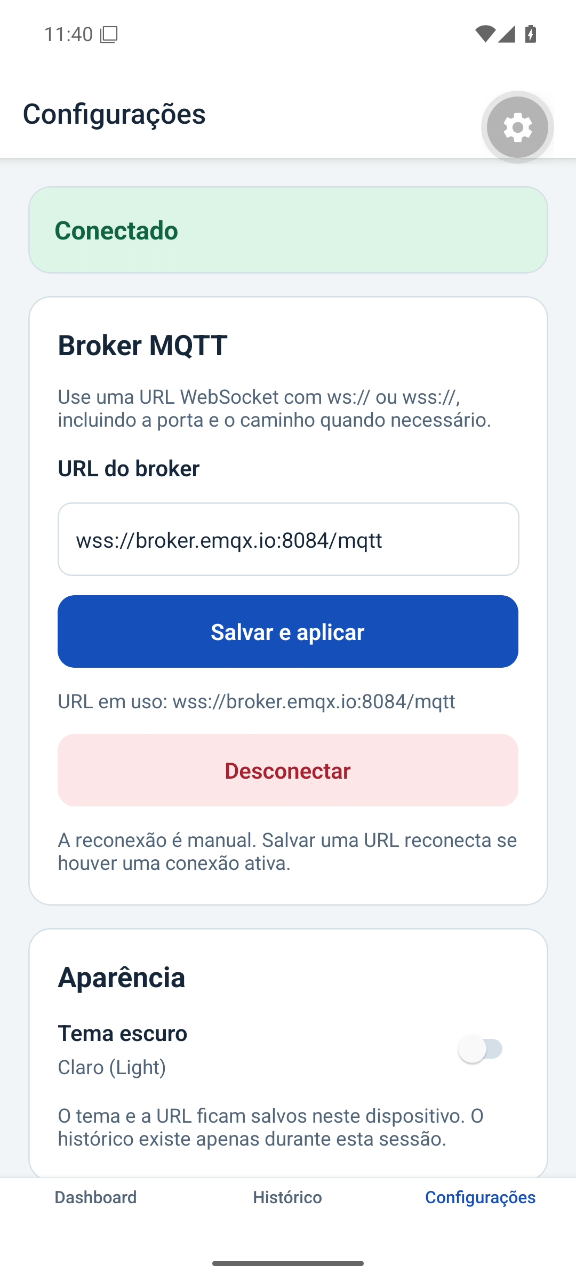
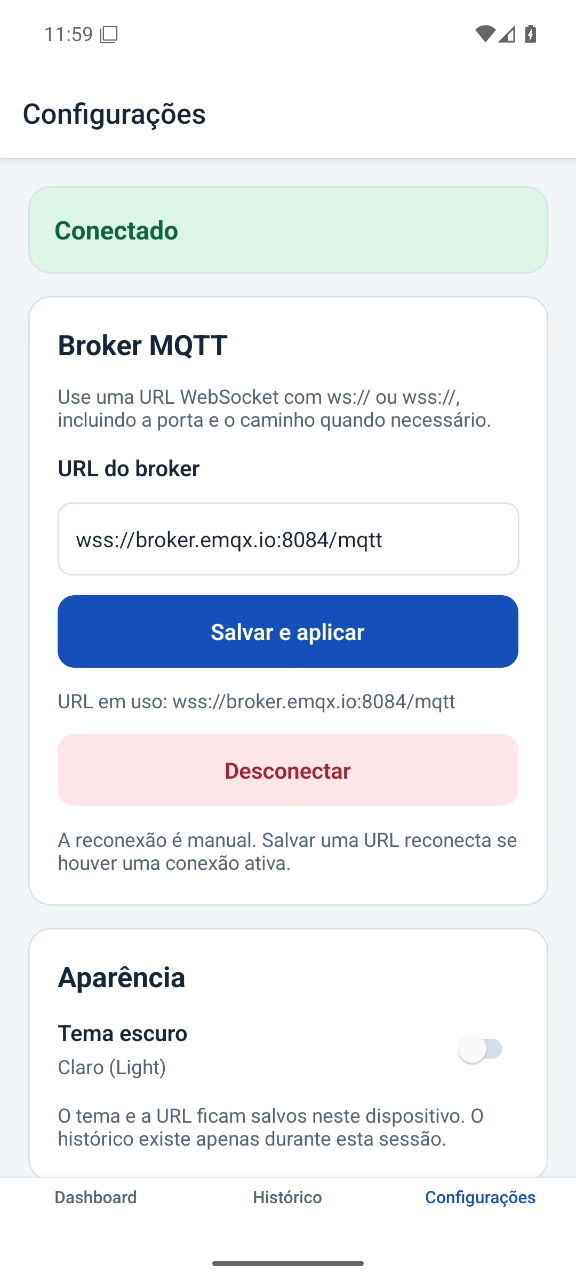
arruma readme

diff --git a/README.md b/README.md
@@ -2,9 +2,7 @@
 
 **Integrante: Vinicius Silva Gardim — RM-556013**
 
-Checkpoint 3 de Mobile — FIAP. Aplicativo para acompanhar temperatura e umidade e controlar uma lâmpada simulada usando MQTT. O objetivo é demonstrar comunicação entre um app React Native e um dispositivo simulado, com confirmação do estado recebido do dispositivo.
-
-O app foi validado no Android com Expo Go, usando o simulador MQTT deste projeto. As capturas abaixo são da execução real no emulador.
+Checkpoint 3 de Mobile — FIAP. App para acompanhar temperatura e umidade e controlar uma lâmpada simulada por MQTT. O objetivo é demonstrar a comunicação entre React Native e um dispositivo simulado, com confirmação do estado recebido.
 
 ## Tecnologias
 
@@ -18,63 +16,51 @@ Versões resolvidas em `package-lock.json`:
 | TypeScript | 6.0.3 |
 | MQTT.js (`mqtt`) | 5.16.1 |
 | AsyncStorage | 2.2.0 |
-| React Navigation Native | 7.5.1 |
-| React Navigation Bottom Tabs | 7.21.0 |
+| React Navigation Native / Bottom Tabs | 7.5.1 / 7.21.0 |
+| React DOM / React Native Web | 19.3.0 / 0.21.4 |
+| Expo Metro Runtime | 58.0.15 |
 
-Ambiente usado: Node.js **22.19.0** e npm **10.9.3**. O simulador usa Node.js e CommonJS.
+Ambiente usado: **Node.js 22.19.0 e npm 10.9.3**. O simulador usa CommonJS.
 
-## Pré-requisitos
+## Pré-requisitos e execução
 
-- Node.js 22.19.0 e npm, usados na validação deste projeto.
-- Acesso à internet para instalar dependências e conectar ao broker público.
-- Expo Go compatível com o SDK 58 em um celular ou emulador Android.
-- Para iOS: Expo Go compatível em um iPhone ou macOS com Xcode para usar o simulador iOS. O simulador iOS não está disponível no Windows.
+- Node.js e npm nas versões acima, internet e dependências do projeto.
+- Android: Expo Go compatível com SDK 58 em um celular ou emulador já iniciado.
+- iOS: Expo Go compatível em um iPhone ou macOS com Xcode para o simulador. Não há simulador iOS no Windows.
+- Web: navegador com suporte a WebSocket.
 
-Para Android, inicie o emulador antes de abrir o app. No ambiente de desenvolvimento foi criado o AVD `Pixel_IoT`, com Android 16/API 36 e Google APIs x86_64. O SDK está em `%LOCALAPPDATA%\Android\Sdk`. A plataforma de compilação do Expo 58 é a API 37; neste ambiente ela foi instalada pelo identificador `platforms;android-37.0`. Usar Expo Go não exige compilar o app nativo localmente.
-
-## Instalação e execução
-
-Na pasta do projeto, instale as dependências e inicie o Expo:
+Na pasta do projeto:
 
 ```sh
 npm install
 npx expo start
 ```
 
-No terminal do Expo, pressione `a` para abrir no Android ou leia o QR Code com o Expo Go compatível. O celular precisa alcançar o servidor de desenvolvimento; em uma rede local, mantenha o celular e o computador na mesma rede.
+Pressione `a` para Android, `w` para Web ou use o QR Code no Expo Go. O celular precisa alcançar o servidor de desenvolvimento, normalmente pela mesma rede local. Em outro terminal, inicie **um único simulador**:
 
-No emulador Windows usado nos testes, o Expo foi iniciado em modo local para evitar um problema de resolução IPv6 do Metro. Se precisar reproduzir esse ambiente, use somente nesse terminal:
+```sh
+npm run simulator
+```
+
+O simulador inicia a lâmpada em `OFF`, publica o estado retido e envia sensores a cada 5 s. Encerre com `Ctrl+C`. O app carrega as preferências e tenta conectar; após uma perda de conexão, use **Reconectar**.
+
+No emulador Windows testado, foi necessário iniciar o Metro com resolução IPv4, somente na sessão:
 
 ```powershell
 $env:NODE_OPTIONS = '--dns-result-order=ipv4first'
 npx expo start --localhost --android
 ```
 
-Em outro terminal, na mesma pasta, inicie um único simulador:
+O SDK local está em `%LOCALAPPDATA%\Android\Sdk`. O AVD `Pixel_IoT` usa Android 16/API 36. Para compilação nativa, Expo 58 exige API 37, instalada como `platforms;android-37.0`; a execução pelo Expo Go não exige compilar localmente.
 
-```sh
-npm run simulator
-```
+### Outro broker
 
-O simulador começa com a lâmpada em `OFF`, publica esse estado retido e envia temperatura e umidade a cada 5 segundos. Use `Ctrl+C` para encerrá-lo.
-
-O app carrega a URL salva nas Configurações e tenta conectar. Se a conexão cair, use **Reconectar**. No Dashboard, aguarde as leituras e o estado da lâmpada antes de testar **Ligar** e **Desligar**.
-
-### Usar outro broker
-
-Defina `MQTT_URL` antes de iniciar o simulador. No app, abra **Configurações**, preencha **URL do broker** com o mesmo endereço e toque em **Salvar e aplicar**. App e simulador precisam usar o mesmo broker e os mesmos tópicos.
+Defina `MQTT_URL` no simulador e informe a **mesma URL** em **Configurações → URL do broker → Salvar e aplicar** no app. Os dois precisam usar o mesmo broker e os mesmos tópicos.
 
 PowerShell:
 
 ```powershell
 $env:MQTT_URL = 'wss://broker.hivemq.com:8884/mqtt'
-npm run simulator
-```
-
-Para voltar ao padrão nesse terminal:
-
-```powershell
-Remove-Item Env:MQTT_URL
 npm run simulator
 ```
 
@@ -84,51 +70,40 @@ Bash:
 MQTT_URL='wss://broker.hivemq.com:8884/mqtt' npm run simulator
 ```
 
-Para voltar ao padrão, encerre o simulador e execute `npm run simulator` sem a variável. Se ela tiver sido exportada anteriormente, execute `unset MQTT_URL` antes.
+Para voltar ao padrão, encerre o simulador, remova a variável (`Remove-Item Env:MQTT_URL` no PowerShell ou `unset MQTT_URL` no bash, se exportada), restaure a URL padrão no app e inicie novamente.
 
-## Broker MQTT
+## Broker e contrato MQTT
 
-| Campo | Padrão |
+| Campo | Valor padrão |
 | --- | --- |
 | URL completa | `wss://broker.emqx.io:8084/mqtt` |
-| Host | `broker.emqx.io` |
-| Protocolo | WSS, MQTT sobre WebSocket seguro |
-| Porta | `8084` |
-| Caminho | `/mqtt` |
+| Protocolo | WSS — MQTT sobre WebSocket seguro |
+| Host / porta / caminho | `broker.emqx.io` / `8084` / `/mqtt` |
 | Autenticação | Sem usuário e senha |
 | Alternativa | `wss://broker.hivemq.com:8884/mqtt` |
 
-A porta **1883 é MQTT sobre TCP e não serve como conexão do app**. Use a URL WebSocket completa nas Configurações, incluindo protocolo, porta e caminho. Um cliente MQTT de terminal pode usar TCP para publicar no mesmo broker, como no exemplo de teste abaixo.
+**1883 é MQTT sobre TCP e não serve para conectar o app.** Nas Configurações, use a URL WebSocket completa, incluindo protocolo, porta e caminho. Referência: [portas do broker público EMQX](https://www.emqx.com/en/mqtt/public-mqtt5-broker).
 
-Referência das portas e do broker público: [EMQX Public MQTT Broker](https://www.emqx.com/en/mqtt/public-mqtt5-broker).
-
-### Tópicos e mensagens
-
-Prefixo: `fiap/3espx/rm556013`.
-
-| Tópico completo | Direção | Payload de exemplo | Publicação |
+| Tópico completo | Direção | Payload | Publicação |
 | --- | --- | --- | --- |
-| `fiap/3espx/rm556013/sensor/temperatura` | Simulador → app | `{"value":24.5}` | A cada 5 s, QoS 0, sem retenção |
-| `fiap/3espx/rm556013/sensor/umidade` | Simulador → app | `{"value":58}` | A cada 5 s, QoS 0, sem retenção |
-| `fiap/3espx/rm556013/lampada/comando` | App → simulador | `{"action":"ON"}` ou `{"action":"OFF"}` | QoS 1, `retain=false` |
-| `fiap/3espx/rm556013/lampada/estado` | Simulador → app | `{"state":"ON"}` ou `{"state":"OFF"}` | QoS 1, `retain=true` |
+| `fiap/3espx/rm556013/sensor/temperatura` | Simulador → app | `{"value":24.5}` | A cada 5 s; QoS 0; sem retenção |
+| `fiap/3espx/rm556013/sensor/umidade` | Simulador → app | `{"value":58}` | A cada 5 s; QoS 0; sem retenção |
+| `fiap/3espx/rm556013/lampada/comando` | App → simulador | `{"action":"ON"}` ou `{"action":"OFF"}` | QoS 1; `retain=false` |
+| `fiap/3espx/rm556013/lampada/estado` | Simulador → app | `{"state":"ON"}` ou `{"state":"OFF"}` | QoS 1; `retain=true` |
 
-Os IDs de cliente têm os prefixos `iotcontrol-app-rm556013-` e `iotcontrol-sim-rm556013-`, com sufixos para evitar colisões.
+Os IDs começam com `iotcontrol-app-rm556013-` e `iotcontrol-sim-rm556013-`, seguidos por sufixos para evitar colisões.
 
-### Comando e confirmação
+### Comando → simulador → confirmação
 
-1. O usuário toca em **Ligar** ou **Desligar** no app conectado.
-2. O app publica `action` no tópico de comando, com QoS 1 e sem retenção.
-3. O simulador valida o JSON, atualiza seu estado interno e publica `state` no tópico de estado, com retenção.
-4. O app altera a indicação da lâmpada somente quando recebe um `state` válido. A confirmação do broker de que o comando foi publicado não confirma o estado do dispositivo.
+1. Conectado, o app publica `action` ao tocar em **Ligar** ou **Desligar**.
+2. O simulador valida o JSON, atualiza o estado interno e publica `state` retido.
+3. O app só altera a lâmpada quando recebe um `state` válido. O PUBACK do broker confirma a publicação, não o estado do dispositivo.
 
-Enquanto não chega o estado correspondente, o app indica que aguarda confirmação do dispositivo. Antes do primeiro estado válido, a lâmpada aparece como **Desconhecido**. Por ser retido, o último estado fica disponível a um novo assinante. Ao iniciar uma nova execução, o simulador publica seu estado inicial `OFF`; ao reconectar, publica seu estado interno atual.
+Antes do primeiro estado, a indicação é **Desconhecido**. Sem confirmação, o app mantém a indicação anterior e mostra que está aguardando o dispositivo. Novos assinantes recebem o último estado retido. Uma nova execução do simulador publica `OFF`; uma reconexão publica seu estado interno atual.
 
-## Testar mensagens inválidas
+## Testar payloads inválidos
 
-Com o app conectado, publique um JSON inválido ou um campo com tipo incorreto em um tópico recebido. Os sensores e a lâmpada devem preservar o último valor válido, e a mensagem deve aparecer como inválida no Histórico.
-
-As opções abaixo foram conferidas em `npx mqtt pub --help`: `-h` host, `-p` porta, `-q` QoS, `-t` tópico e `-s` leitura do payload pela entrada padrão. Execute na pasta do projeto; `npx` usa o `mqtt` já instalado, sem adicionar uma dependência.
+Com o app conectado, publique um valor de tipo incorreto. A leitura válida deve ser preservada e o Histórico deve marcar a mensagem como inválida. As flags foram conferidas em `npx mqtt pub --help`: `-h` host, `-p` porta, `-q` QoS, `-t` tópico e `-s` entrada padrão. Na pasta do projeto, `npx` usa o `mqtt` existente, sem adicionar dependência.
 
 PowerShell:
 
@@ -144,92 +119,62 @@ npx mqtt pub --help
 printf '%s' '{"value":"invalido"}' | npx mqtt pub -h broker.emqx.io -p 1883 -q 1 -t fiap/3espx/rm556013/sensor/temperatura -s
 ```
 
-Esse cliente de terminal usa TCP/1883 no EMQX; o app continua usando WSS/8084. Se o app e o simulador estiverem no broker alternativo, ajuste também o host e a porta do cliente de teste.
+Esse cliente de terminal usa TCP/1883 no mesmo broker; o app continua em WSS/8084. Ajuste host e porta do cliente se usar outro broker. Repita com `sensor/umidade` e `{"value":null}`, ou `lampada/estado` e `{"state":"INVALIDO"}`. Para testar o simulador, envie `{"action":"INVALIDO"}` a `fiap/3espx/rm556013/lampada/comando`: ele deve registrar e ignorar. **Não use `-r`**, para não reter mensagens inválidas.
 
-Repita com `sensor/umidade` e `{"value":null}`, ou com `lampada/estado` e `{"state":"INVALIDO"}`. Para testar o simulador, publique `{"action":"INVALIDO"}` em `fiap/3espx/rm556013/lampada/comando`: ele deve registrar o erro e manter o estado. Não use `-r` nesses testes, para não reter payloads inválidos.
+## Telas e prints reais
 
-## Telas
+| Tela | Função |
+| --- | --- |
+| Dashboard | Conexão, temperatura em °C, umidade em %, horário das últimas leituras válidas e lâmpada. Sem conexão, Ligar/Desligar ficam bloqueados com o motivo visível. Há reconexão manual e indicação de confirmação pendente. |
+| Histórico | Até 10 mensagens, mais recentes primeiro, com direção, horário de recebimento/envio, tópico e payload bruto. Inválidas são sinalizadas. Comandos entram após o PUBACK. Não é persistido. |
+| Configurações | Valida e salva URL `ws://` ou `wss://`, conecta/desconecta/reconecta e alterna o tema. Salvar URL com conexão ativa aplica a nova conexão; desconectado, exige Conectar. URL e tema são persistidos com AsyncStorage e carregados antes de conectar. |
 
-As três telas usam navegação por abas. URL e tema são carregados antes da primeira conexão ao broker.
+Capturas da execução Android, sem edição. O botão de desenvolvimento foi ocultado em **menu do Expo Go → Tools button**, sem alterar o código do app.
 
-### Dashboard
+| Tema | Dashboard | Histórico | Configurações |
+| --- | --- | --- | --- |
+| Claro | <img src="screenshots/dashboard.png" alt="Dashboard claro com leituras reais e estado recebido" width="220" /> | <img src="screenshots/historico.png" alt="Histórico claro com mensagens enviadas e recebidas" width="220" /> | <img src="screenshots/configuracoes.png" alt="Configurações em tema claro" width="220" /> |
+| Escuro | <img src="screenshots/dashboard-escuro.png" alt="Dashboard escuro com leituras reais e estado recebido" width="220" /> | <img src="screenshots/historico-escuro.png" alt="Histórico escuro com mensagens enviadas e recebidas" width="220" /> | <img src="screenshots/configuracoes-escuro.png" alt="Configurações em tema escuro" width="220" /> |
 
-Exibe a conexão, temperatura em °C, umidade em %, horário das últimas leituras válidas e estado da lâmpada. As leituras ainda não recebidas aparecem sem valor; a lâmpada começa como desconhecida. Os botões **Ligar** e **Desligar** ficam desabilitados sem conexão ou durante o envio/salvamento. A tela informa quando aguarda a confirmação do dispositivo e oferece reconexão manual.
+## Estrutura
 
-<img src="screenshots/dashboard.png" alt="Dashboard no Android com sensores, conexão e lâmpada" width="300" />
-
-### Histórico
-
-Lista até 10 mensagens, com as mais recentes primeiro. Cada item mostra direção, horário local do recebimento/envio, tópico e payload. Mensagens inválidas recebem uma indicação. Os comandos enviados entram após a confirmação da publicação pelo broker. O histórico fica apenas em memória.
-
-<img src="screenshots/historico.png" alt="Histórico com tópico, horário e payload bruto das leituras" width="300" />
-
-### Configurações
-
-Permite editar a URL do broker, salvar e aplicar, conectar, desconectar e reconectar. Aceita endereços `ws://` e `wss://`. Salvar uma nova URL com conexão ativa inicia a conexão com o novo endereço; desconectado, é necessário tocar em **Conectar**. O controle **Tema escuro** alterna a aparência. URL e tema ficam salvos no dispositivo com AsyncStorage.
-
-<img src="screenshots/configuracoes.png" alt="Configurações com a URL do EMQX e o tema claro" width="300" />
-
-O mesmo Dashboard em tema escuro:
-
-<img src="screenshots/tema-escuro.png" alt="Dashboard em tema escuro no Android" width="300" />
-
-## Estrutura de pastas
-
-```text
-IoT Control/
-├── App.tsx
-├── app.json
-├── index.ts
-├── assets/
-├── simulator/
-│   └── index.js
-├── src/
-│   ├── components/
-│   ├── screens/
-│   │   ├── DashboardScreen.tsx
-│   │   ├── HistoryScreen.tsx
-│   │   └── SettingsScreen.tsx
-│   ├── services/
-│   ├── themes/
-│   └── types/
-├── tests/
-├── screenshots/
-├── package.json
-└── package-lock.json
-```
-
-`components/` contém a navegação e os elementos reutilizados nas telas. `services/` reúne conexão MQTT, validação de mensagens, contexto do app e preferências. `themes/` define as cores; `types/` define o contrato dos tópicos e os tipos de dados. `tests/` contém testes de mensagens, histórico, conexão MQTT e armazenamento. `screenshots/` contém capturas reais, sem mockups. Os scripts auxiliares de validação ficam fora do repositório.
+| Caminho | Conteúdo |
+| --- | --- |
+| `App.tsx`, `index.ts`, `app.json` | Entrada e configuração do Expo |
+| `src/components/`, `src/screens/` | Navegação, componentes e três telas |
+| `src/services/` | MQTT, validação, contexto e preferências |
+| `src/themes/`, `src/types/` | Cores, tipos e contrato dos tópicos |
+| `simulator/index.js` | Dispositivo simulado em Node.js |
+| `tests/`, `screenshots/`, `assets/` | Testes, capturas reais e recursos visuais |
+| `package.json`, `package-lock.json` | Scripts, dependências e versões resolvidas |
 
 ## Verificações e plataformas
 
-Validação integrada executada em **26/10/2026** no Windows, AVD **Pixel_IoT** com perfil Pixel 6, **Android 16/API 36 x86_64**, aceleração WHPX e tela 1080 × 2400. O app executou no **Expo Go 58.0.5 com Hermes**, conectado ao EMQX por WSS.
+Validação Android em **26/10/2026**, Windows, perfil Pixel 6/AVD **Pixel_IoT**, **Android 16/API 36 x86_64**, WHPX e **Expo Go 58.0.5/Hermes**. Tela do dispositivo: 1080 × 2400; capturas do portal: 576 × 1280.
 
-| Verificação | Resultado observado |
+| Verificação | Resultado observado no Android |
 | --- | --- |
-| Temperatura e umidade | Leituras do simulador exibidas com unidade e horário; novas publicações a cada 5 s |
-| ON/OFF | Comando recebido pelo simulador, estado publicado e indicação da lâmpada atualizada após a confirmação |
-| Payloads inválidos | 15 mensagens nos três tópicos de recebimento; temperatura de 28,8 °C, umidade de 52,7% e lâmpada ligada preservadas, com indicação de mensagem inválida no Histórico |
-| Histórico após rajada | 24 mensagens publicadas em cerca de 4,8 s; ficaram exatamente as últimas 10, mais recentes primeiro, com tópico, horário e payload bruto |
-| Comando sem simulador | OFF publicado e confirmado pelo broker; lâmpada permaneceu ligada, aguardando confirmação do dispositivo por cerca de 22 s. Só mudou ao receber OFF após reiniciar o simulador |
-| Reconexão manual | Após perda de conexão, o app preservou as leituras e exibiu Reconectar. A conexão e a entrega do estado retido voltaram após o toque |
-| Temas e preferências | Temas claro/escuro conferidos; URL EMQX e tema claro preservados após encerrar e reabrir o Expo Go |
-| Testes locais | `npm test`: 17 testes aprovados; `npx tsc --noEmit`: sem erros |
+| Sensores e ON/OFF | Leituras a cada 5 s; comandos e estados correspondentes conferidos na UI e no log do simulador |
+| Desconexão intencional | Ligar e Desligar desabilitados; motivo “Conecte-se ao broker para enviar comandos” visível |
+| URLs inválidas | `abc` e `http://exemplo.com` rejeitadas com erro compreensível, sem conectar ou substituir a URL salva |
+| Broker inalcançável | `wss://localhost:9/mqtt` terminou em erro visível em cerca de 2,5 s, sem ficar em Conectando; EMQX restaurado |
+| Navegação e reconexões | Três ciclos pelas três abas e de desconectar/conectar ou reconectar; três toques ON/OFF produziram exatamente três comandos, um por toque |
+| Ausência de duplicatas na amostra | As 10 últimas leituras corresponderam uma a uma ao log do simulador após os ciclos; horários decrescentes no Histórico |
+| Payloads inválidos | 15 mensagens nos três tópicos recebidos preservaram os valores e o estado válidos; erro indicado no Histórico |
+| Rajada e limite | 24 mensagens em cerca de 4,8 s; exatamente as últimas 10 mantidas, com ordem, tópico e payload bruto conferidos |
+| Sem simulador | OFF publicado, lâmpada permaneceu ligada aguardando por cerca de 22 s; só mudou após receber OFF ao reiniciar o simulador |
+| Preferências e temas | Claro/escuro conferidos; URL EMQX e tema preservados após encerrar e reabrir o Expo Go |
+| Testes locais | `npm test`: 17 aprovados; `npx tsc --noEmit`: sem erros |
 
-Evidências adicionais: [mensagens inválidas](screenshots/invalidos.png), [fim do histórico com a décima entrada](screenshots/historico-final.png) e [comando sem simulador, ainda sem confirmação](screenshots/sem-simulador.png).
+**Web:** validado por Brasa em navegador real do portal Maestri no Windows, **Chromium 152.0.7977.130 / Electron 44.5.1**. Foram testados EMQX WSS, sensores atualizados, ON/OFF com confirmação sem mudança otimista, temas claro/escuro e navegação Dashboard/Configurações. Persistência/reload Web e outros navegadores não foram testados.
 
-O simulador também foi validado com um cliente MQTT separado: estado inicial retido, ON/OFF, novos assinantes, comandos inválidos e intervalo dos sensores. A variável `MQTT_URL` foi verificada com conexão WSS ao HiveMQ. O exemplo de `npx mqtt pub` por TCP/1883 foi recebido por um assinante WSS/8084 no mesmo broker, em tópico isolado.
-
-Durante a preparação da rajada no broker público, envios simultâneos tiveram publicações confirmadas que não chegaram ao assinante. Os scripts auxiliares passaram a espaçar os envios em 200 ms; nesse teste, todas as 39 mensagens chegaram. A causa da limitação no serviço público não foi confirmada.
-
-**iOS e Web não foram testados.** Não foi produzido um APK independente; a execução Android validada foi pelo Expo Go.
+**iOS e APK independente não foram testados.** O simulador também teve retenção, comandos inválidos, novos assinantes e `MQTT_URL` no HiveMQ verificados por cliente separado. Os scripts e logs auxiliares ficaram fora do repositório, em `%TEMP%\iotcontrol-validation`.
 
 ## Limitações
 
-- O broker é público, sem autenticação e sem privacidade dos tópicos. Não envie dados pessoais ou sensíveis. Outras pessoas podem ler e publicar nesses tópicos, inclusive alterar o estado retido.
-- A disponibilidade e a latência dependem da internet e do broker público.
-- O histórico mantém apenas as 10 últimas mensagens da sessão e não é persistido. URL e tema são persistidos.
-- A reconexão do app é manual. Comandos sem conexão são recusados e não ficam em uma fila para envio posterior.
-- Sem o simulador, o broker pode entregar um estado retido antigo; esse estado não comprova que o dispositivo está online. O app aguarda uma mensagem de estado para confirmar cada comando.
-- O dispositivo é simulado. Não há integração com sensores ou lâmpada físicos.
-- Os resultados acima se limitam ao ambiente Android registrado; não comprovam execução nas plataformas não testadas.
+- Broker público, sem autenticação nem privacidade dos tópicos: outras pessoas podem ler/publicar, inclusive alterar o estado retido. Não envie dados pessoais ou sensíveis.
+- Disponibilidade e latência dependem da rede e do broker. Na preparação, envios simultâneos tiveram perdas observadas; com intervalo de 200 ms, as 39 mensagens de teste chegaram. A causa no serviço público não foi confirmada.
+- Histórico limitado às 10 mensagens da sessão, sem persistência. Somente URL e tema são persistidos.
+- Reconexão manual; comandos offline são recusados e não ficam em fila para envio posterior.
+- Estado retido pode ser antigo e não comprova que o dispositivo está online. Sem simulador, a confirmação do dispositivo permanece pendente.
+- Dispositivo simulado, sem sensores ou lâmpada físicos. Os resultados se limitam às plataformas e aos cenários registrados acima.
